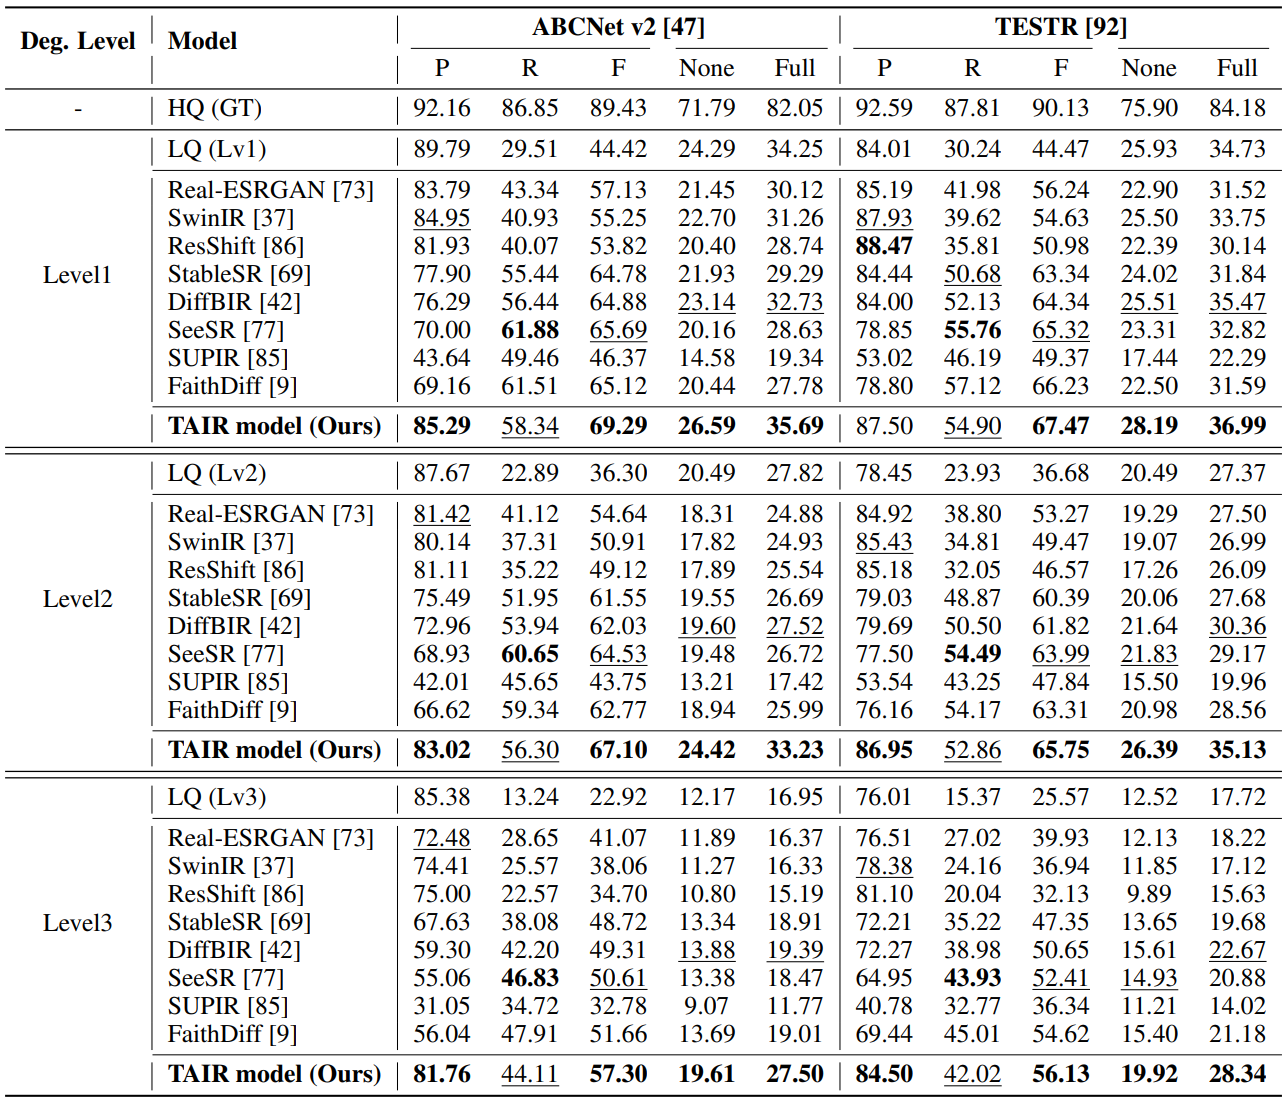
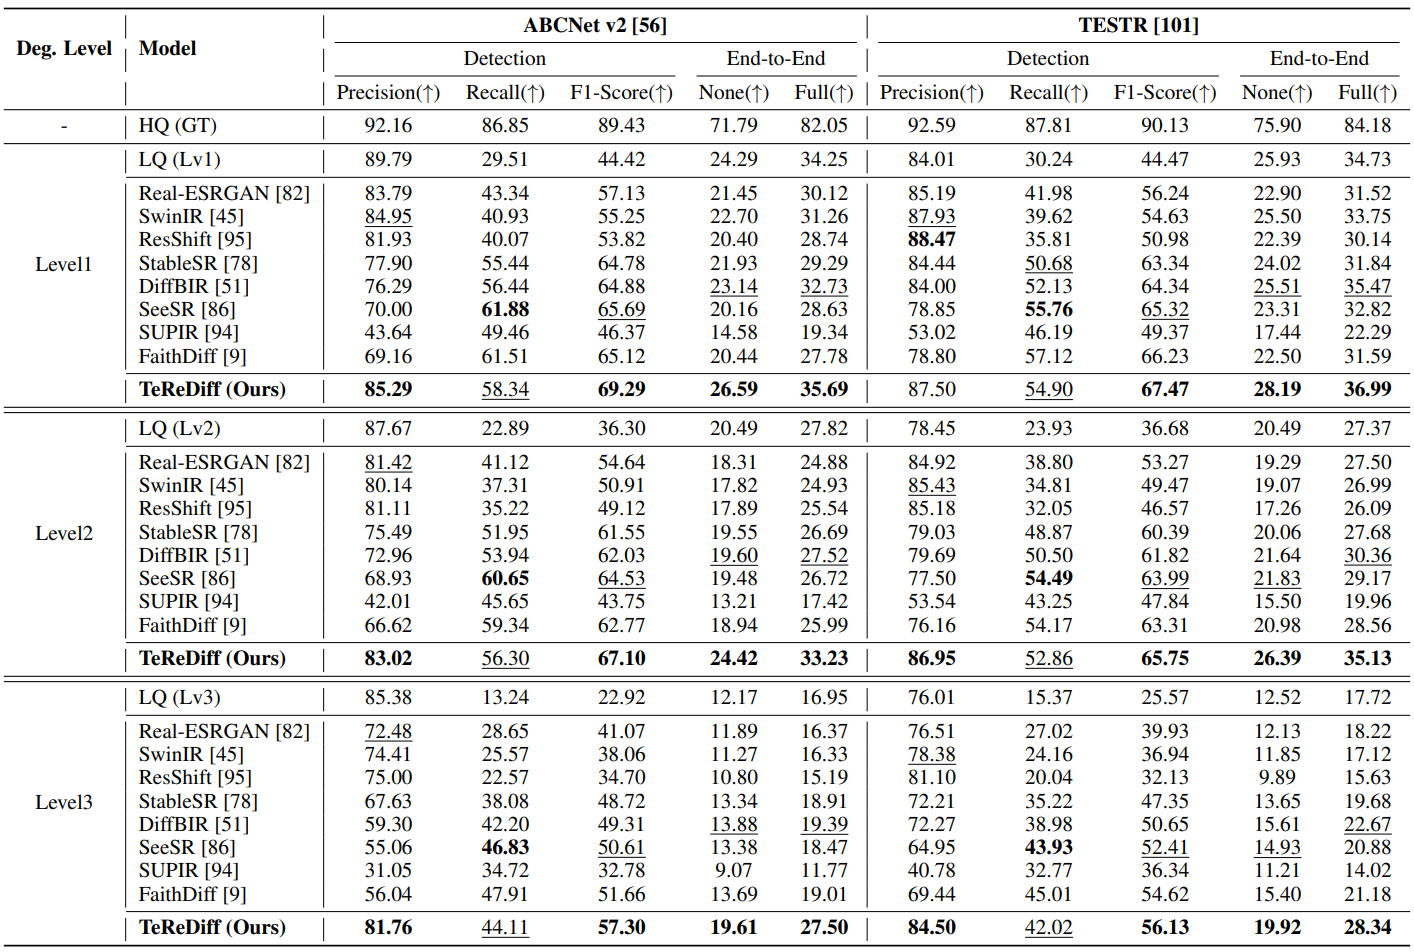
[Fix] change the images

diff --git a/index.html b/index.html
@@ -144,7 +144,7 @@
 <section class="hero teaser">
   <div class="container is-max-desktop">
     <div class="hero-body">
-      <img src="img/teaser.jpg" class="center">
+      <img src="img/teaser.png" class="center">
       <h2 class="subtitle" style="text-align: justify;">
         <br>
         <strong style="display: block; text-align: center; color: #880000; margin-top: -10px;">
@@ -204,7 +204,7 @@
         <img src="img/architecture.jpg" class="center" width="100%">
 
         <div class="content has-text-justified" style="margin-top: 15px; text-align: left; font-size: 18px;">
-          <strong>Overview of the TAIR model architecture, training, and inference pipeline.</strong> TAIR integrates a text-spotting module into a diffusion image restoration framework, using text supervision during training and recognized text as a prompt at inference to enhance text-aware image restoration.
+          <strong>Overview of TeReDiff architecture, training, and inference pipeline.</strong> TAIR integrates a text-spotting module into a diffusion image restoration framework, using text supervision during training and recognized text as a prompt at inference to enhance text-aware image restoration.
         </div>
 
       </div>
